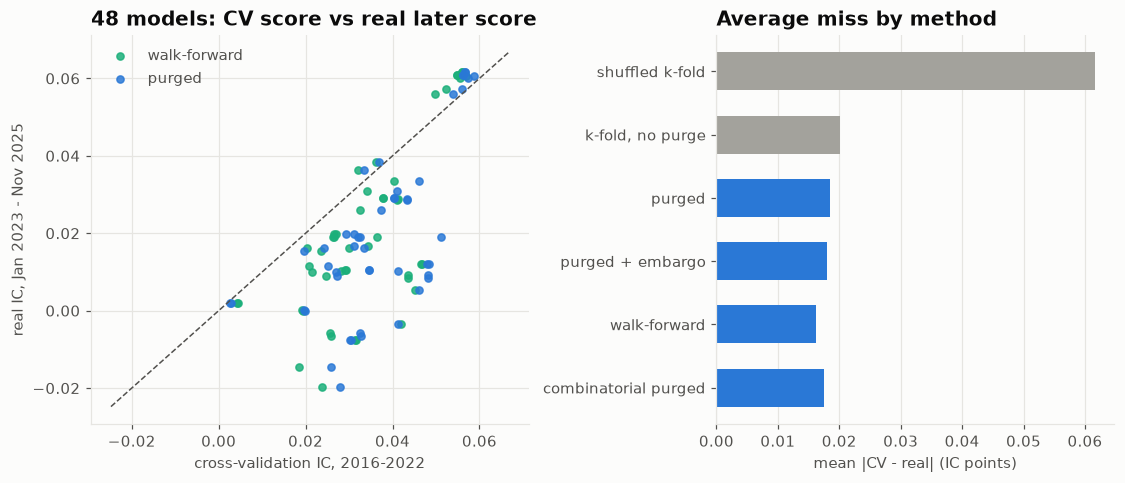
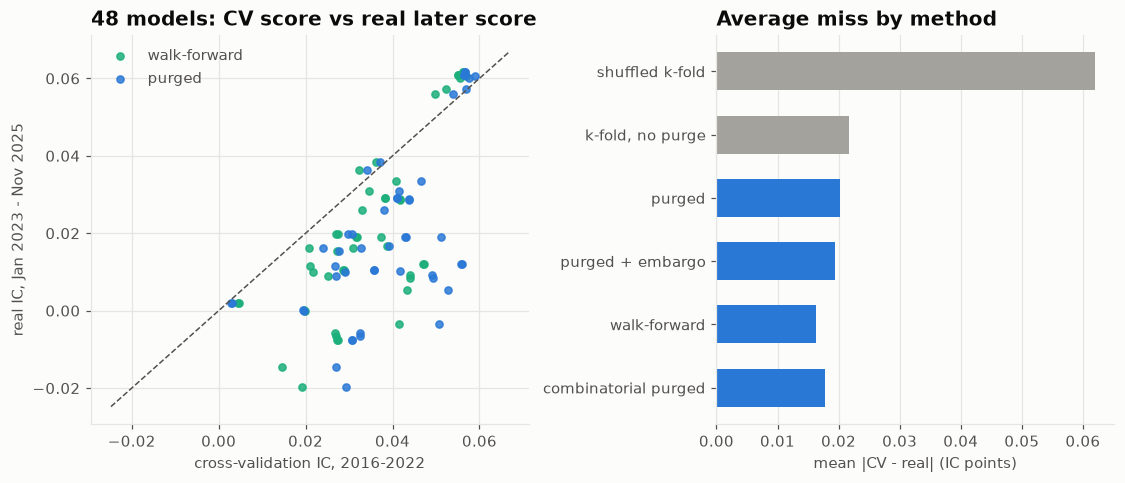
fix: final review reruns - findings 3-6 recomputed with training rows whose labels end by Dec 2022; walk-forward came closest; wording tightened where claims went past the evidence

diff --git a/README.md b/README.md
@@ -55,119 +55,122 @@ same model really gets on a fresh panel from the same process, 10 panels per cas
 gradient-boosted trees; note the two charts' different scales.
 
 - **Shuffling rows is the leak.** With no true edge, boosted trees scored an IC of +0.161 (5-day labels)
-  and +0.277 (21-day) under shuffled k-fold, against a true score of about 0. Ridge, which can't
-  memorise, was off by much less (+0.016 and +0.037).
+  and +0.277 (21-day) under shuffled k-fold, against a true score of about 0. Ridge was off by much less (+0.016 and +0.037).
 - **Splitting by day did almost all the work.** Plain k-fold over blocks of days, with no purge, was off
-  by +0.012 (5-day) and +0.009 (21-day) for the trees. Purging closed the 21-day gap to +0.001 and left
-  the 5-day gap at +0.011.
+  by +0.012 (5-day) and +0.009 (21-day) for the trees. Purging moved the 21-day gap to +0.001 and left the
+  5-day gap at +0.011; both changes are within about one standard error (0.007).
 - **The embargo changed nothing in these cases.** Purged with and without a 21-day embargo differed by
   0.003 or less everywhere, including a case with momentum in returns, which moved no result by more
   than 0.002.
 - **Walk-forward is the most cautious.** With a small true edge and 21-day labels it scored 0.016
-  (trees) and 0.018 (ridge) below the truth, training on half the data on average; combinatorial purged
-  CV was 0.010–0.011 below.
-- **When the edge flips sign halfway, every method misjudges it.** For ridge, purged k-fold scored
-  −0.049 below a true score near 0 and combinatorial purged −0.033; walk-forward came closest at −0.017.
+  (trees) and 0.018 (ridge) below the truth; combinatorial purged CV was 0.010–0.011 below.
+- **When the edge flips sign halfway, ridge's scores go wrong.** Purged k-fold scored −0.049 below a
+  true score near 0 and combinatorial purged −0.033; walk-forward came closest at −0.017. For the
+  trees every honest method stayed within 0.012 of the truth.
 
 ### 3. The reference model's features rebuilt exactly; walk-forward scores them lower than purged k-fold
 
 <a href="docs/img/features.png"><picture><source media="(prefers-reduced-motion: reduce)" srcset="docs/img/features.png"><img src="docs/img/features.gif" alt="Mean daily rank IC of the reference model's slow features by label length, ridge and LightGBM, purged five-fold against walk-forward" width="720"></picture></a>
 
-The reference model's ten slow stock features (momentum over 1, 6 and 12 months, distance from the 50- and 200-day
-averages, 20- and 252-day volatility, 60-day beta and idiosyncratic volatility against NIFTY, 63-day
-turnover) and its labels were rebuilt from the archive with the same formulas: universe rows only, each
-feature clipped at the 1st and 99th percentile and ranked across stocks each day. Then Ridge and LightGBM
-(the reference settings, on these features only; the reference LightGBM also sees market-wide features) were
-scored on the rule-picking data, Jan 2016 – Dec 2022, as mean daily rank IC, by purged 5-fold and by
-the reference model's walk-forward (retrained every 6 months, training ending h + 6 days before each block).
+The reference model's ten slow stock features (momentum over 1, 6 and 12 months, distance from the 50- and
+200-day averages, 20- and 252-day volatility, 60-day beta and idiosyncratic volatility against NIFTY,
+63-day turnover) and its labels were rebuilt from the archive with the same formulas: universe rows only,
+each feature clipped at the 1st and 99th percentile and ranked across stocks each day. Ridge and LightGBM
+(the reference settings, on these features only; the reference LightGBM also sees market-wide features)
+were scored on rows whose labels end by Dec 2022, Jan 2016 – Dec 2022, as mean daily rank IC, by purged
+5-fold and by the reference model's walk-forward (retrained every 6 months, training ending h + 6 days
+before each block).
 
 - **The rebuild matches the original row for row.** All 570,800 shared rows up to Aug 2025 and all 18
   feature and label columns agree, largest gap 0.0, no mismatch in missing values.
-- **The features carry a steady signal.** Ridge: IC +0.056 (1-day labels), +0.043 (5-day), +0.048
-  (21-day), +0.048 (63-day) under purged 5-fold.
-- **Walk-forward scored lower in 7 of 8 cases,** most for LightGBM on 21-day labels (+0.028 against
-  +0.041). Walk-forward trains only on the past, so on these days its models saw less data.
-- **Ridge matched or beat LightGBM at every label length,** by 0.000 to 0.007 under purged 5-fold.
-- **Which score to believe is still open.** The synthetic panels (finding 2) had walk-forward slightly
-  below the truth; the next finding checks both against what the models really scored later.
+- **The features carry a steady signal.** Ridge: IC +0.056 (1-day labels), +0.044 (5-day), +0.049
+  (21-day), +0.056 (63-day) under purged 5-fold.
+- **Walk-forward scored lower in all 8 cases,** by 0.0014 (ridge, 1-day) to 0.0128 (LightGBM, 21-day:
+  +0.0288 against +0.0416).
+- **Ridge matched or beat LightGBM at every label length but one** (1-day: LightGBM +0.0569, ridge
+  +0.0564).
+- **Which score to believe is still open.** The next finding checks both against what the models really
+  scored later.
 
-### 4. Every honest method overstated the next three years; walk-forward missed least, purging picked best
+### 4. Every honest method overstated the next three years; walk-forward came closest
 
 <a href="docs/img/check.png"><picture><source media="(prefers-reduced-motion: reduce)" srcset="docs/img/check.png"><img src="docs/img/check.gif" alt="Cross-validation IC against real later IC for 48 models under purged and walk-forward splits, and the average miss of six methods" width="720"></picture></a>
 
 48 model variants were fixed in advance (`plan-topic4`, committed before any later data was scored): label
 length 1, 5, 21 or 63 days × all ten features, the five trend features or the five risk features × ridge
-(alpha 1 or 100) or LightGBM (7 or 31 leaves). Each method scored every variant on data up to Dec 2022
-(days from 2016, the same for all). Then each variant, trained on every row whose label ended by Dec 2022,
-was scored once on Jan 2023 – Nov 2025; those real scores are saved in `runs/check.json` and never
-recomputed. Comparisons between methods are paired over the 48 variants, which share label lengths and
-data, so the t values are rough.
+(alpha 1 or 100) or LightGBM (7 or 31 leaves). Each method scored every variant on rows whose labels end
+by Dec 2022 (days from 2016, the same for all). Then each variant, trained on the same rows, was scored
+once on Jan 2023 – Nov 2025; those real scores are saved in `runs/check.json` and never recomputed. The
+48 variants share data, label lengths and features, so the paired t values below treat dependent cases
+as independent and overstate how sure the differences are.
 
 - **The next three years were weaker than any honest method expected.** The 48 models made a real IC of
-  +0.020 on average; purged 5-fold had scored them at +0.037, walk-forward +0.034, combinatorial purged
-  +0.036. Every honest method overstated the future by 0.014–0.017.
+  +0.020 on average; purged 5-fold had scored them at +0.039, walk-forward +0.035, combinatorial purged
+  +0.036. Every honest method overstated the future, by 0.014 to 0.019 on average.
 - **Shuffled k-fold was useless.** It scored the models at +0.081 on average, missed by 0.062, and ranked
-  them the wrong way round (rank correlation with the real scores −0.15).
-- **On real data the purge mattered, and so did the embargo.** Plain 5-fold over day blocks missed by
-  0.0202, purged 5-fold by 0.0185 (t +4.57 for the difference), purged with an h-day embargo by 0.0180
-  (t −2.37 against purged alone).
-- **Walk-forward missed least (0.0161, t −3.95 against purged), but purged k-fold picked better.** Taking
-  each method's favourite model per label length, purged 5-fold (with or without the embargo) chose models
-  that really made +0.0313, against +0.0275 for walk-forward and +0.0270 for combinatorial purged; the best
-  possible was +0.0333. Purged 5-fold also ranked the models most like reality (0.64; 0.66 with the
-  embargo).
+  them slightly the wrong way round (rank correlation with the real scores −0.13).
+- **Walk-forward came closest and ranked best.** Its average miss was 0.0164 (purged 5-fold 0.0202, t
+  −5.55) and its rank correlation with the real scores 0.71 (purged 0.63). It also scored lowest of the
+  honest methods, so part of its lead is simply that every score was too high.
+- **Purging and the embargo both shrank the miss.** Plain 5-fold over day blocks missed by 0.0218,
+  purged by 0.0202 (t +2.83 for the difference), purged with an h-day embargo by 0.0194 (t −3.61 against
+  purged alone).
+- **The picks tell a different story, on too few cases to test.** Each method's favourite model per
+  label length (4 picks) really made +0.0313 for purged 5-fold, with or without the embargo, against
+  +0.0275 for walk-forward and +0.0270 for combinatorial purged; the best possible was +0.0333.
 
-### 5. The reference model's gap is enough: training up to the test added up to 0.025 IC, wider gaps added nothing
+### 5. The reference model's gap is enough; training up to the day before the test added up to 0.025 IC
 
 <a href="docs/img/sizing.png"><picture><source media="(prefers-reduced-motion: reduce)" srcset="docs/img/sizing.png"><img src="docs/img/sizing.gif" alt="Walk-forward IC against the gap before the test block, for 1-, 5-, 21- and 63-day labels, ridge and LightGBM" width="720"></picture></a>
 
-On data to Dec 2022 only (the 2023 – 2025 results of finding 4 were not used), ridge and LightGBM on all ten
-features were scored by the reference model's walk-forward with the gap before each test block set to 0, h,
-h + 6 (the reference model's), 2h and 3h days, and by purged 5-fold with purges of 0, h/2 and h days and embargoes
-of 0, 6, h and 2h. The decision rule was written down before the run (`plan-topic5`): the needed size is
-the smallest setting whose daily IC is not detectably above the widest setting's (paired t below 2, with
-the reference model's √(days / h) correction for overlapping labels).
+On rows whose labels end by Dec 2022 only (the 2023 – 2025 results of finding 4 were not used), ridge and
+LightGBM on all ten features were scored by the reference model's walk-forward with training ending 1, h,
+h + 6 (the reference model's), 2h and 3h days before each test block, and by purged 5-fold with purges
+of 0, h/2 and h days and embargoes of 0, 6, h and 2h. The decision rule was written down before the run
+(`plan-topic5`): the needed size is the smallest setting whose daily IC is not detectably above the
+widest setting's (3h for walk-forward, purge h with a 2h embargo for k-fold), with a paired t below 2
+using the reference model's √(days / h) correction for overlapping labels.
 
-- **Training right up to the test inflated the score, most for long labels and trees.** Walk-forward IC
-  with no gap minus IC with a gap of h: LightGBM +0.0250 (63-day labels), +0.0098 (21-day), +0.0025
-  (5-day), +0.0013 (1-day); ridge +0.0066, +0.0013, +0.0003, +0.0001.
-- **Beyond a gap of h, nothing changed.** From h up to 3h, walk-forward IC stayed between +0.0399 and
-  +0.0420 for 63-day LightGBM and between +0.0282 and +0.0307 for 21-day LightGBM.
-- **The reference model's h + 6 sits on that flat part,** so it removes the overlap and costs at most 6 extra days.
-  It is enough; an exact gap of h would do as well.
-- **The fixed rule could not prove any of it.** No gap was detectably above the widest one (largest t
-  1.6 for 63-day LightGBM), so by the rule a gap of 0 was "enough" for every walk-forward case. Eight
-  years of noisy daily IC cannot confirm a leak of this size; the 48-model check in finding 4, which
-  compared methods across many models, could (purge t +4.57).
-- **The k-fold reference was a poor choice.** A 2h embargo throws away so much training data (126 days on
-  each side for 63-day labels) that it scored lowest for that reason alone (ridge +0.0355 against
-  +0.0480 with the purge only), so k-fold sizes from this rule mean little.
+- **Training up to the day before the test raised the score, most for long labels and trees.**
+  Walk-forward IC with a 1-day gap minus IC with a gap of h: LightGBM +0.0250 (63-day labels), +0.0085
+  (21-day), +0.0007 (5-day), +0.0000 (1-day); ridge +0.0063, +0.0010, +0.0002, +0.0000.
+- **Beyond a gap of h, nothing changed.** From h up to the widest gap, walk-forward IC stayed between
+  +0.0394 and +0.0415 for 63-day LightGBM and between +0.0288 and +0.0314 for 21-day LightGBM.
+- **The reference model's h + 6 sits on that flat part,** costing at most 6 more days than an exact gap
+  of h, which would do as well.
+- **The fixed rule could not prove the rise.** No walk-forward setting was detectably above the widest
+  one, so by the rule a 1-day gap was "enough" everywhere; eight years of one model's noisy daily IC
+  cannot confirm a difference of this size. The +0.025 is an estimate, not a tested result.
+- **The k-fold reference was a poor choice.** With a 2h embargo after each test block, it scored lowest
+  (63-day ridge +0.0507 against +0.0558 with the purge only), so the k-fold sizes from this rule mean
+  little.
 
 ### 6. Seven paths agreed with each other, not with the next three years
 
 <a href="docs/img/paths.png"><picture><source media="(prefers-reduced-motion: reduce)" srcset="docs/img/paths.png"><img src="docs/img/paths.gif" alt="Range of seven combinatorial purged CV path scores for 48 models against each model's real later score" width="720"></picture></a>
 
-Combinatorial purged CV on data to Dec 2022: the days are cut into 8 groups, every choice of 2 is a test
-set (28 splits, purged and embargoed by h days), and the test pieces join into 7 complete backtest
-paths, each scored on 2016 – 2022. The 48 models of finding 4, checked against the real Jan 2023 – Nov
-2025 scores saved there (a second look at that window; nothing here was tuned on it). The measures were
-written down before the run (`plan-topic6`). For each label length, the best model's forecast takes a
-haircut for picking the best of 12: the expected best of 12 normal draws × the path standard error ×
+Combinatorial purged CV on rows whose labels end by Dec 2022: the days are cut into 8 groups, every choice
+of 2 is a test set (28 splits, purged and embargoed by h days), and the test pieces join into 7 complete
+backtest paths, each scored on 2016 – 2022. The 48 models of finding 4, checked against the real Jan 2023
+– Nov 2025 scores saved there (a second look at that window; nothing here was tuned on it). The measures
+were written down before the run (`plan-topic6`). For each label length, the best model's forecast takes
+a haircut for picking the best of 12: the expected best of 12 normal draws × the path standard error ×
 √(1 − the models' average path correlation).
 
-- **The paths barely disagree.** The median standard deviation across a model's 7 paths was 0.0022 IC;
-  they score the same days with heavily shared training data.
-- **So their spread is no forecast range.** The real score fell inside the model's path range for 3 of
-  48 models, and inside path mean ± 2 standard deviations for 3; on average the real score was 0.0163
-  below the path mean.
-- **But a wider spread did warn of a bigger miss.** Across the 48 models, path standard deviation and
-  the size of the miss had a rank correlation of 0.77.
-- **The haircut for picking was too small to matter.** It ranged from 0.0002 (1-day labels) to 0.0032
-  (63-day). Over the four picks, the average miss was 0.0238 without it, 0.0228 with it and 0.0213 for
+- **The paths barely disagree.** The median standard deviation across a model's 7 paths was 0.0024 IC.
+- **So their spread is no forecast range.** The real score fell inside the model's path range for 2 of
+  48 models, and inside path mean ± 2 standard deviations for 3; on average it was 0.0166 below the
+  path mean.
+- **Across label lengths, wider spread came with bigger misses, but not within one.** Over all 48 the
+  rank correlation of path spread with the miss was 0.79, but long labels have both (median spread
+  0.0003 for 1-day labels, 0.0086 for 63-day); within one label length it was −0.73, +0.08, +0.14 and
+  +0.62.
+- **The haircut for picking was too small to matter.** It ranged from 0.0001 (1-day labels) to 0.0031
+  (63-day). Over the four picks, the average miss was 0.0228 without it, 0.0216 with it and 0.0204 for
   walk-forward.
 - **The long-label picks collapsed.** The best 21-day model (ridge, all features) made +0.0085 for real
-  against a forecast of +0.0463; the best 63-day model (LightGBM, 7 leaves) made +0.0054 against
-  +0.0471. The 1-day pick held up (+0.0605 against +0.0587).
+  against a forecast of +0.0459; the best 63-day model (ridge, alpha 100) made +0.0121 against +0.0496.
+  The 1-day pick held up (+0.0605 against +0.0587).
 
 ## Quick start
 
@@ -191,7 +194,7 @@ implementation's `features.parquet` for the match check (`PCV_REF_FEATURES`), ke
 - `src/pcv/synth.py`, `evaluate.py`: synthetic panels with a known edge; daily rank IC and out-of-fold scoring.
 - `src/pcv/reports.py`, `plots.py`, `site.py`: report numbers and charts, chart style, the lab page.
 - Conventions: a row's label covers days day+1 to day+h; rules are chosen on data up to Dec 2022 and
-  checked once on Jan 2023 – Nov 2025; the last 365 days (from 27 Nov 2025) are never read, kept as a sealed holdout.
+  checked once on Jan 2023 – Nov 2025 (training rows keep only labels that end by Dec 2022); the last 365 days (from 27 Nov 2025) are never read, kept as a sealed holdout.
 - Data: NSE daily bhavcopy archive, local only.
 - Charts: every chart is a PNG plus an animated GIF made by `pcv report`.
 
